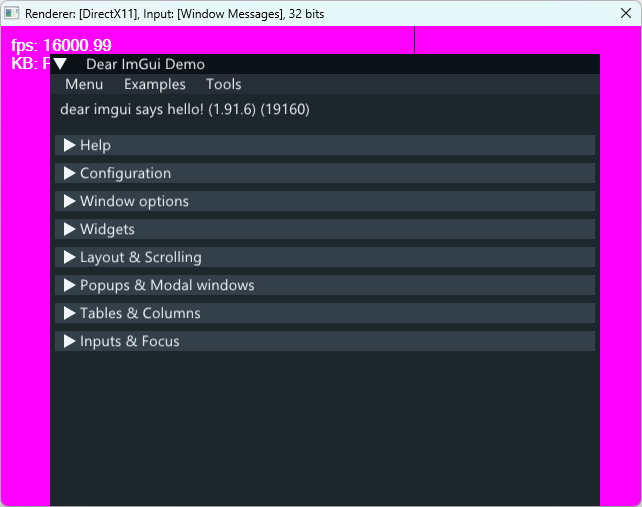
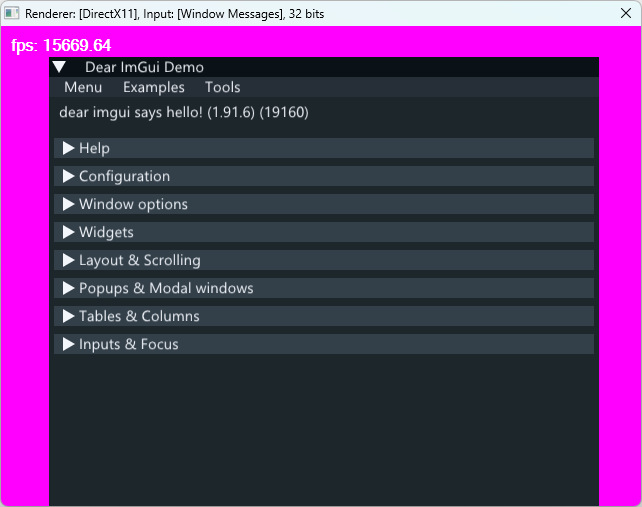
Code optimization

Changed region(s): [[0.0623, 0.2663, 0.9346, 0.7101], [0.0, 0.0592, 0.9346, 0.2367]]

diff --git a/ImGui-DirectX11-Hook/GuiWindow.cpp b/ImGui-DirectX11-Hook/GuiWindow.cpp
@@ -123,8 +123,6 @@ void GuiWindow::Update()
 
 void GuiWindow::ExitButton()
 {
-    ImGui::PushStyleColor(ImGuiCol_FrameBg, ImVec4(0.0f, 0.0f, 0.0f, 1.0f));
-    ImGui::PushStyleColor(ImGuiCol_ChildBg, ImVec4(0.0f, 0.0f, 0.0f, 1.0f));
     ImGui::SetCursorPos(ImVec2(0, 0));
     ImGui::BeginChildFrame(CHILD_FRAME_ID, ImVec2(WINDOW_WIDTH, WINDOW_HEIGHT));
     ImGui::SetCursorPos(ImVec2(0, 0));
@@ -145,5 +143,4 @@ void GuiWindow::ExitButton()
 
     ImGui::EndChild();
     ImGui::EndChildFrame();
-    ImGui::PopStyleColor(2);
 }

diff --git a/ImGui-DirectX11-Hook/GuiWindow.h b/ImGui-DirectX11-Hook/GuiWindow.h
@@ -4,7 +4,6 @@
 #include "Imgui/imgui_impl_win32.h"
 #include "ImGui/imgui_internal.h"
 #include <Windows.h>
-#include <sstream>
 #include <string>
 
 constexpr const char* AUTHOR_INFO = "Created by l4kkS41 On ";
